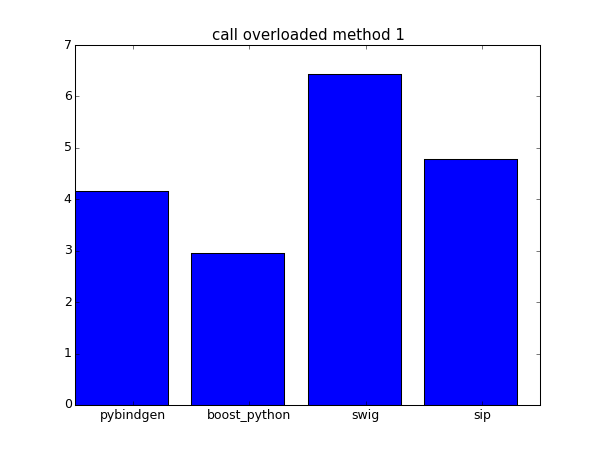
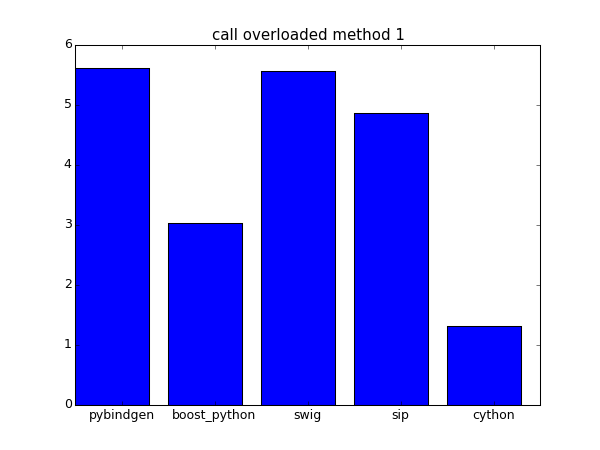
include cython

diff --git a/result/index.html b/result/index.html
@@ -1,7 +1,7 @@
 
 <html>
 <head>
-<title> PyBindGen Benchmarks </title>
+<title> Python Binding Benchmark </title>
 </head>
 
 <body>

diff --git a/bench.py b/bench.py
@@ -13,6 +13,7 @@ import testapi_pybindgen
 import testapi_boost
 import testapi_swig
 import testapi_sip
+import testapi_cython
 
 
 def bench(mod, dom, elem):
@@ -113,6 +114,9 @@ def main():
     env.appendChild(dom.createElement('pybindgen')).appendChild(dom.createTextNode(
             subprocess.Popen(["bzr", "version-info", '--check-clean'],
                              stdout=subprocess.PIPE, stderr=subprocess.STDOUT).communicate()[0]))
+    env.appendChild(dom.createElement('cython')).appendChild(dom.createTextNode(
+            subprocess.Popen(["cython", "--version"],
+                             stdout=subprocess.PIPE, stderr=subprocess.STDOUT).communicate()[0]))
 
     env.appendChild(dom.createElement('cpu')).appendChild(dom.createTextNode(
             file("/proc/cpuinfo").read()))
@@ -144,6 +148,11 @@ def main():
     sip = res.appendChild(dom.createElement('sip'))
     sip.setAttribute("module-file-size", repr(os.stat("testapi_sip.so").st_size))
     bench(testapi_sip, dom, sip)
+
+    print "cython results:"
+    sip = res.appendChild(dom.createElement('cython'))
+    sip.setAttribute("module-file-size", repr(os.stat("testapi_cython.so").st_size))
+    bench(testapi_cython, dom, sip)
 
     if len(sys.argv) == 3:
         f = open(sys.argv[1], "wb")

diff --git a/plotresults.py b/plotresults.py
@@ -63,7 +63,7 @@ def main(argv):
     print >> index_html, """
 <html>
 <head>
-<title> PyBindGen Benchmarks </title>
+<title> Python Binding Benchmark </title>
 </head>
 
 <body>
